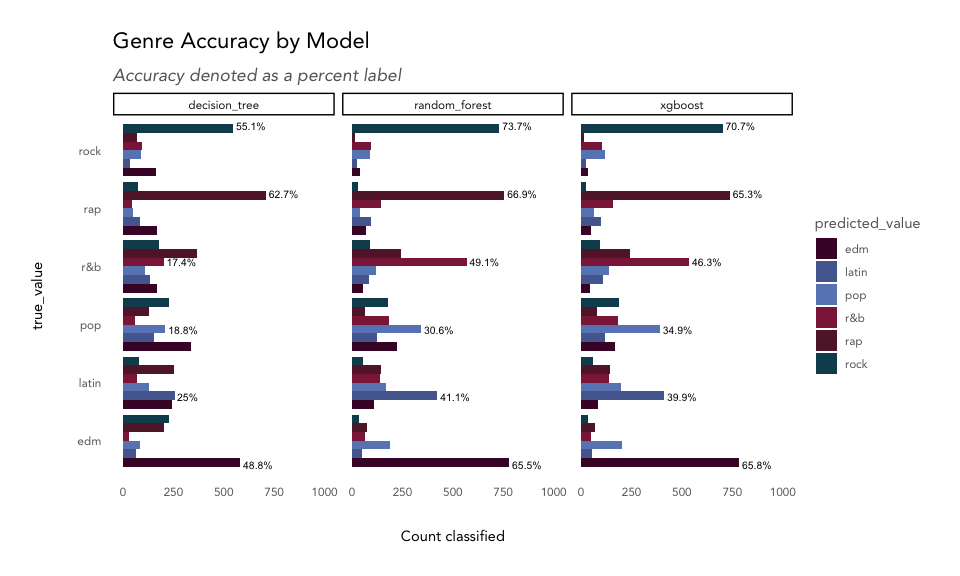
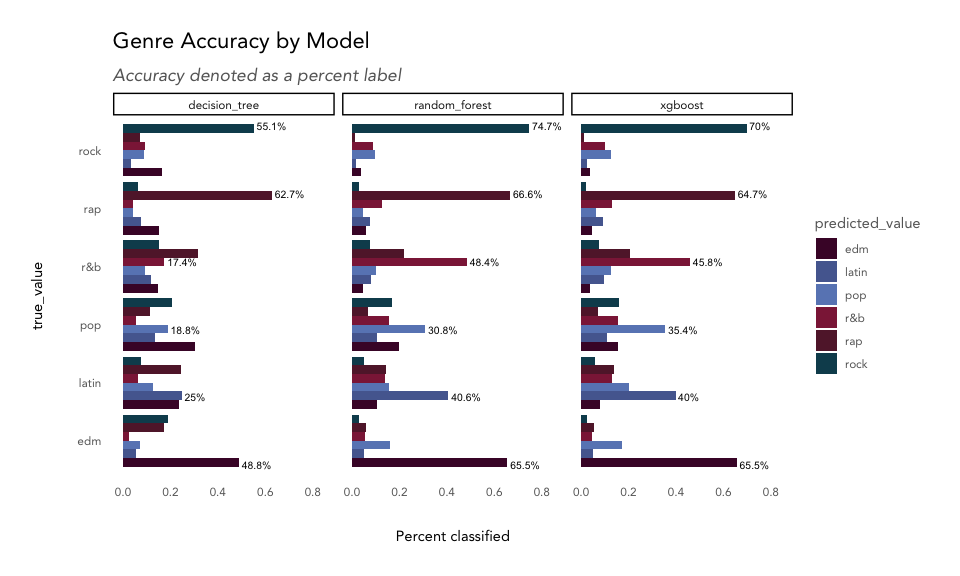
feedback edits

diff --git a/spotify_genres.md b/spotify_genres.md
@@ -1,6 +1,12 @@
 Spotify Audio Features + Music Genres
 ================
 
+Musical genre is far from black and white - there are no hard and fast
+rules for classifying a given track or artist as “hard rock” vs. “folk
+rock,” but rather the listener knows it when they hear it. Is it
+possible to classify songs into broad genres? And what can quantitative
+audio features tell us about the qualities of each genre?
+
 ## Exploring Spotify’s audio features
 
 The [Spotify Web
@@ -20,21 +26,23 @@ It’s likely that Spotify uses these features to power products like
 Spotify Radio and custom playlists like Discover Weekly and Daily Mixes.
 Those products also make use of Spotify’s vast listener data, like
 listening history and playlist curation, for you and users similar to
-you.
-
-Musical genre is far from black and white - there are no hard and fast
-rules for classifying a given track or artist as “hard rock” vs. “folk
-rock,” but rather the listener knows it when they hear it. Spotify has
-the benefit of letting humans create relationships between songs and
-weigh in on genre via listening and creating playlists. With just the
-quantitative features, is it possible to classify songs into broad
-genres? And what can these audio features tell us about the qualities of
-each genre?
+you. Spotify has the benefit of letting humans create relationships
+between songs and weigh in on genre via listening and creating
+playlists. With just the quantitative features, is it possible to
+classify songs into broad genres? And what can these audio features tell
+us about the qualities of each genre?
 
 We’ll look into a sample of songs from six broad genres - `pop`, `rap`,
 `rock`, `latin`, `EDM`, and `R&B` - to find out.
 
 ### TL;DR:
+
+Decision tree, random forest, and XGBoost models were trained on the
+audio feature data for 33,000+ songs. The random forest model was able
+to classify ~54% of songs into the correct genre, a marked improvement
+from random chance (1 in 6 or ~17%), while the individual decision tree
+shed light on which audio features were most relevant for classifying
+each genre:
 
 `Rap`: speechy.  
 `Rock`: can’t dance to it.  
@@ -42,6 +50,13 @@ We’ll look into a sample of songs from six broad genres - `pop`, `rap`,
 `R&B`: long songs.  
 `Latin`: very danceable.  
 `Pop`: everything else.
+
+`Rap` was one of the easier genres to classify, largely thanks to the
+speechiness feature. Low danceability helped separate out `rock` tracks,
+and high `tempo` provided the distinction needed to find `EDM` songs.
+`R&B`, `pop`, and `latin` songs were most difficult to sort out, but
+`R&B` songs tended to be longer in duration, and `latin` songs were
+slightly more danceable than `pop` tracks.
 
 ### Table of Contents
 
@@ -179,25 +194,32 @@ interquartile range by 4 to widen the spread of values we’ll consider
 *not* be outliers.
 
 ``` r
-playlist_songs %>%
+with_outliers <- playlist_songs %>%
   ggplot(aes(y = duration_ms)) +
   geom_boxplot(color = kp_cols('red'), coef = 4) +
   coord_flip() +
   labs(title = 'Duration') 
-```
 
-![](spotify_genres_files/figure-gfm/outliers-1.png)<!-- -->
-
-``` r
 duration_outliers <- boxplot(playlist_songs$duration_ms, 
                              plot = FALSE, range = 4)$out
 
 playlist_songs_no_outliers <- playlist_songs %>%
   filter(!duration_ms %in% duration_outliers) 
+
+without_outliers <- playlist_songs_no_outliers %>%
+  ggplot(aes(y = duration_ms)) +
+  geom_boxplot(color = kp_cols('red'), coef = 4) +
+  coord_flip() +
+  labs(title = 'Duration, outliers removed') 
+
+gridExtra::grid.arrange(with_outliers, without_outliers, ncol = 1)
 ```
 
+![](spotify_genres_files/figure-gfm/outliers-1.png)<!-- -->
+
 There were 116 songs that were defined as outliers and removed from the
-dataset.
+dataset, resulting in a distribution maxing out at 516,000 ms (8.6
+minutes) instead of 5,100,000 ms (85 minutes).
 
 #### Correlation between features
 
@@ -245,59 +267,34 @@ feature_names_reduced <- names(playlist_songs)[c(12:14,16:23)]
 
 #### Correlation within genres
 
-How do the genres correlate with each other? How consistent are songs
-within a given genre?
-
-We’ll take a sample of the dataset and calculate the correlation between
-all the songs, then aggregate those measures by genre to produce a
-feature that’s basically the average correlation between songs in two
-given genres.
+How do the genres correlate with each other? We’ll calculate the median
+feature values for each genre and then compute the correlation between
+those to find out. This doesn’t take individual song variation into
+account, but will give us an idea which genres are similar to each
+other.
 
 ``` r
-# take a random sample
-set.seed(0012)
-song_sample <- sample(1:nrow(playlist_songs_no_outliers), nrow(playlist_songs_no_outliers)*.05, replace = FALSE)
-
-# create a key dataframe with ids/genres with numerical index
-key <- playlist_songs_no_outliers %>%
-  select(track.id, playlist_genre) %>%
-  mutate(position = as.character(1:n()))
-
-key <- key[song_sample, ]
-
-# create a correlation matrix, then melt it
-song_cor <- playlist_songs_no_outliers[song_sample, ] %>% 
-  select(feature_names_reduced) %>%
-  scale() %>%
-  t() %>%
-  cor() %>%
-  as.data.frame() %>%
-  mutate(index = row.names(.)) %>%
-  pivot_longer(-index) %>%
-  filter(!is.na(value) & index != name) %>%
-  left_join(key, by = c('index' = 'position')) %>%
-  left_join(key, by = c('name' = 'position')) 
-
-# summarise by genres
-genre_cor <- song_cor %>%
-  group_by(playlist_genre.x, playlist_genre.y) %>%
-  summarise(avg_cor = mean(value)) %>%
+# average features by genre
+avg_genre_matrix <- playlist_songs_no_outliers %>%
+  group_by(playlist_genre) %>%
+  summarise_if(is.numeric, median, na.rm = TRUE) %>%
   ungroup() 
 
-genre_cor_matrix <- genre_cor %>%
-  pivot_wider(id_cols = 'playlist_genre.x', 
-              names_from = 'playlist_genre.y', 
-              values_from = 'avg_cor')
-
-row.names(genre_cor_matrix) <- genre_cor_matrix$playlist_genre.x
-
-genre_cor_matrix %>%
-  select(-playlist_genre.x) %>%
+avg_genre_cor <- avg_genre_matrix %>%
+  select(feature_names_reduced, -mode) %>% 
+  scale() %>%
+  t() %>%
   as.matrix() %>%
-  corrplot::corrplot(method = 'color', 
+  cor() 
+
+colnames(avg_genre_cor) <- avg_genre_matrix$playlist_genre
+row.names(avg_genre_cor) <- avg_genre_matrix$playlist_genre
+
+avg_genre_cor %>% corrplot::corrplot(method = 'color', 
                      order = 'hclust',
                      type = 'upper',
                      tl.col = 'black',
+                     diag = FALSE,
                      addCoef.col = "grey40",
                      number.cex = 0.75,
                      col = colorRampPalette(colors = c(
@@ -305,21 +302,17 @@ genre_cor_matrix %>%
                        'white', 
                        kp_cols('dark_blue')))(200),
                      mar = c(2,2,2,2),
-                     main = '\nAverage Correlation Between Genre Songs',
-                     family = 'Avenir'
-                     )
+                     main = 'Correlation Between Median Genre Feature Values',
+                     family = 'Avenir')
 ```
 
-![](spotify_genres_files/figure-gfm/genre_cor-1.png)<!-- -->
+![](spotify_genres_files/figure-gfm/genre_cor_feature-1.png)<!-- -->
 
-Songs within each genre vary quite a bit\! Rock songs are the most
-consistent, with a correlation strength of 0.12, while pop songs are the
-least consistent at just 0.02.
-
-Rap and rock (-0.09) and R\&B and EDM (-0.07) have the strongest
-negative correlations of any genre pairs.The rest of the genres don’t
-negatively or positively correlate much with one another, which may make
-them hard to classify.
+`Rock` and `EDM` is negatively correlated with all genres except for
+each other, which may make them easy to tell apart from the rest of the
+genres, but not each other. `Latin` and `R&B` are the most similar, with
+a positive correlation of 0.57, while `EDM` and `R&B` and `EDM` and
+`latin` are the most different (-0.83, -0.69).
 
 ## Classifying songs into genres using audio features
 
@@ -373,6 +366,7 @@ the flip side, they are prone to overfitting and may produce high
 variance between models created from different samples of the same data.
 
 ``` r
+set.seed(1111)
 model_dt <- rpart(playlist_genre ~ ., data = train_set)
 
 rpart.plot(model_dt, 
@@ -405,17 +399,16 @@ grouped into the `latin` genre, and everything else is considered `pop.`
 
 The values under the leaves represent the distribution of true values
 for each class grouped into that leaf; for example, in the `rap`
-predicted class, 12% were `EDM`, 15% were `latin`, 8% were `pop`, 20%
-were `R&B`, 41% matched the true value, `rap`, and 3% were `rock`
+predicted class, 12% were `EDM`, 16% were `latin`, 8% were `pop`, 20%
+were `R&B`, 40% matched the true value, `rap`, and 3% were `rock`
 tracks. The value beneath that indicates the percentage of observations
-classified into that leaf, so 24% of all tracks were classified as `rap`
+classified into that leaf, so 25% of all tracks were classified as `rap`
 in this tree.
 
-The decision tree classifier was best at classifying `rap` (41% correct)
-and `rock` (43% correct) and had the most trouble getting it right for
-`pop` tracks (30% correct) in the training data. How does it perform on
-the hold-out test data? The plot below shows the predicted value versus
-the true value for each class.
+The decision tree classifier was best at classifying `rock` (43%
+correct) and `rap` (40% correct) and had the most trouble getting it
+right for `pop` tracks (30% correct) in the training data. How does it
+perform on the hold-out test data?
 
 ``` r
 predict_dt <- predict(object = model_dt, newdata = test_set)
@@ -438,7 +431,8 @@ model_accuracy_calc <- function(df, model_name) {
 accuracy_dt <- model_accuracy_calc(df = compare_dt, model_name = 'decision_tree')
 ```
 
-The decision tree model shows an overall accuracy of 37.9%.
+The decision tree model shows an overall accuracy, or percentage of
+songs classified into their correct genre, of 37.9%.
 
 #### Random forest
 
@@ -466,7 +460,7 @@ compare_rf <- data.frame(true_value = test_resp,
 accuracy_rf <- model_accuracy_calc(df = compare_rf, model_name = 'random_forest')
 ```
 
-The random forest model shows an overall accuracy of 54.4%.
+The random forest model shows an overall accuracy of 54.3%.
 
 #### Gradient boosting with XGBoost
 
@@ -488,7 +482,7 @@ matrix_train_gb <- xgb.DMatrix(data = as.matrix(train_set[,-1]), label = as.inte
 matrix_test_gb <- xgb.DMatrix(data = as.matrix(test_set[,-1]), label = as.integer(as.factor(test_set[,1])))
 
 model_gb <- xgboost(data = matrix_train_gb, 
-                    nrounds = 50,
+                    nrounds = 100,
                     verbose = FALSE,
                     params = list(objective = "multi:softmax",
                                   num_class = 6 + 1))
@@ -504,7 +498,7 @@ compare_gb <- data.frame(true_value = test_resp,
 accuracy_gb <- model_accuracy_calc(df = compare_gb, model_name = 'xgboost')
 ```
 
-The gradient boosting model shows an overall accuracy of 53.8%.
+The gradient boosting model shows an overall accuracy of 53.6%.
 
 ### Model comparison
 
@@ -560,6 +554,9 @@ key didn’t contribute much.
 
 #### Accuracy
 
+Accuracy, or percentage of songs classified into their correct genre,
+ranged from 36% to 54% by model.
+
 ``` r
 accuracy_rf %>%
   rbind(accuracy_dt) %>%
@@ -572,16 +569,20 @@ accuracy_rf %>%
 
 | model          | accuracy |
 | :------------- | -------: |
-| random\_forest |   54.39% |
+| random\_forest |   54.32% |
 | decision\_tree |   37.86% |
-| xgboost        |   53.79% |
+| xgboost        |   53.56% |
 
-Overall, the random forest model performed the best, though all three
-models have poor accuracy. Classifying fewer genres would likely improve
-this metric, and trying to classify more than 6 would likely drive it
-down further. It’s unlikely that this approach is a robust way to
-classify music in real life, where Spotify handles thousands of
-different genres and subgenres.
+If we guessed randomly which genre to assign to each song in this
+dataset, the accuracy would be 16.6% (or 1 in 6). The decision tree
+improved on random chance twofold, and random forest and XGBoost
+improved it more than threefold, though none would be very reliable in
+practice.
+
+Classifying fewer genres would likely improve this metric, and trying to
+classify more than 6 would likely drive it down further. It’s unlikely
+that this approach is a robust way to classify music in real life, where
+Spotify handles thousands of different genres and subgenres.
 
 How did each model fare for each genre?
 
@@ -598,7 +599,7 @@ compare_dt %>%
                         paste0(round(pct * 100,1),'%'), 
                         "")) %>%
   ggplot(aes(x = true_value, 
-             y = n, 
+             y = pct, 
              fill = predicted_value, 
              label = label)) +
   geom_col(position = 'dodge') +
@@ -609,8 +610,8 @@ compare_dt %>%
   coord_flip() + 
   labs(title = 'Genre Accuracy by Model',
        subtitle = 'Accuracy denoted as a percent label',
-       y = 'Count classified') +
-  ylim(c(0,1000)) +
+       y = 'Percent classified') +
+  ylim(c(0,.85)) +
   theme(panel.grid.major.y = element_blank()) +
   scale_fill_kp() 
 ```
@@ -618,9 +619,10 @@ compare_dt %>%
 ![](spotify_genres_files/figure-gfm/compare_plot-1.png)<!-- -->
 
 All genres showed gains in accuracy as we moved from simpler to more
-complex (decision tree –\> random forest –\> XGBoost). `Pop`, `latin`,
-and `R&B` remained the most difficult to classify, while `EDM`, `rap`
-and `rock` reached more than 65% accuracy.
+complex (decision tree –\> random forest/XGBoost), though XGBoost didn’t
+provide improvements for most genres. `Pop`, `latin`, and `R&B` remained
+the most difficult to classify, while `EDM`, `rap` and `rock` reached
+more than 65% accuracy.
 
 ### Bonus: Principal component analysis of features
 
@@ -657,9 +659,11 @@ data.frame(proporation_of_variance = song_eigen$values/sum(song_eigen$values)) %
 
 ![](spotify_genres_files/figure-gfm/pca-1.png)<!-- -->
 
-We would need to retain 7 PCs to explain \>75% of the variance, which is
-a great improvement from 12 features, but doesn’t help much with
-understanding the relationship between the features and song genres.
+Typically we would look for an “elbow” where the variance explained by
+subsequent PCs drops off, but there isn’t one here. We would need to
+retain 7 PCs to explain \>75% of the variance, which is a great
+improvement from 12 features, but doesn’t help much with understanding
+the relationship between the features and song genres.
 
 Let’s look a little closer at the first two for simplicity’s sake.
 
@@ -715,6 +719,13 @@ more strongly onto PC2 than other genres, likely due to its
 characteristically low valence.
 
 ### Conclusion: What did we learn?
+
+Decision tree, random forest, and XGBoost models were trained on the
+audio feature data for 33,000+ songs. The random forest model was able
+to classify ~54% of songs into the correct genre, a marked improvement
+from random chance (1 in 6 or ~17%), while the individual decision tree
+shed light on which audio features were most relevant for classifying
+each genre:
 
 `Rap`: speechy.  
 `Rock`: can’t dance to it.  
